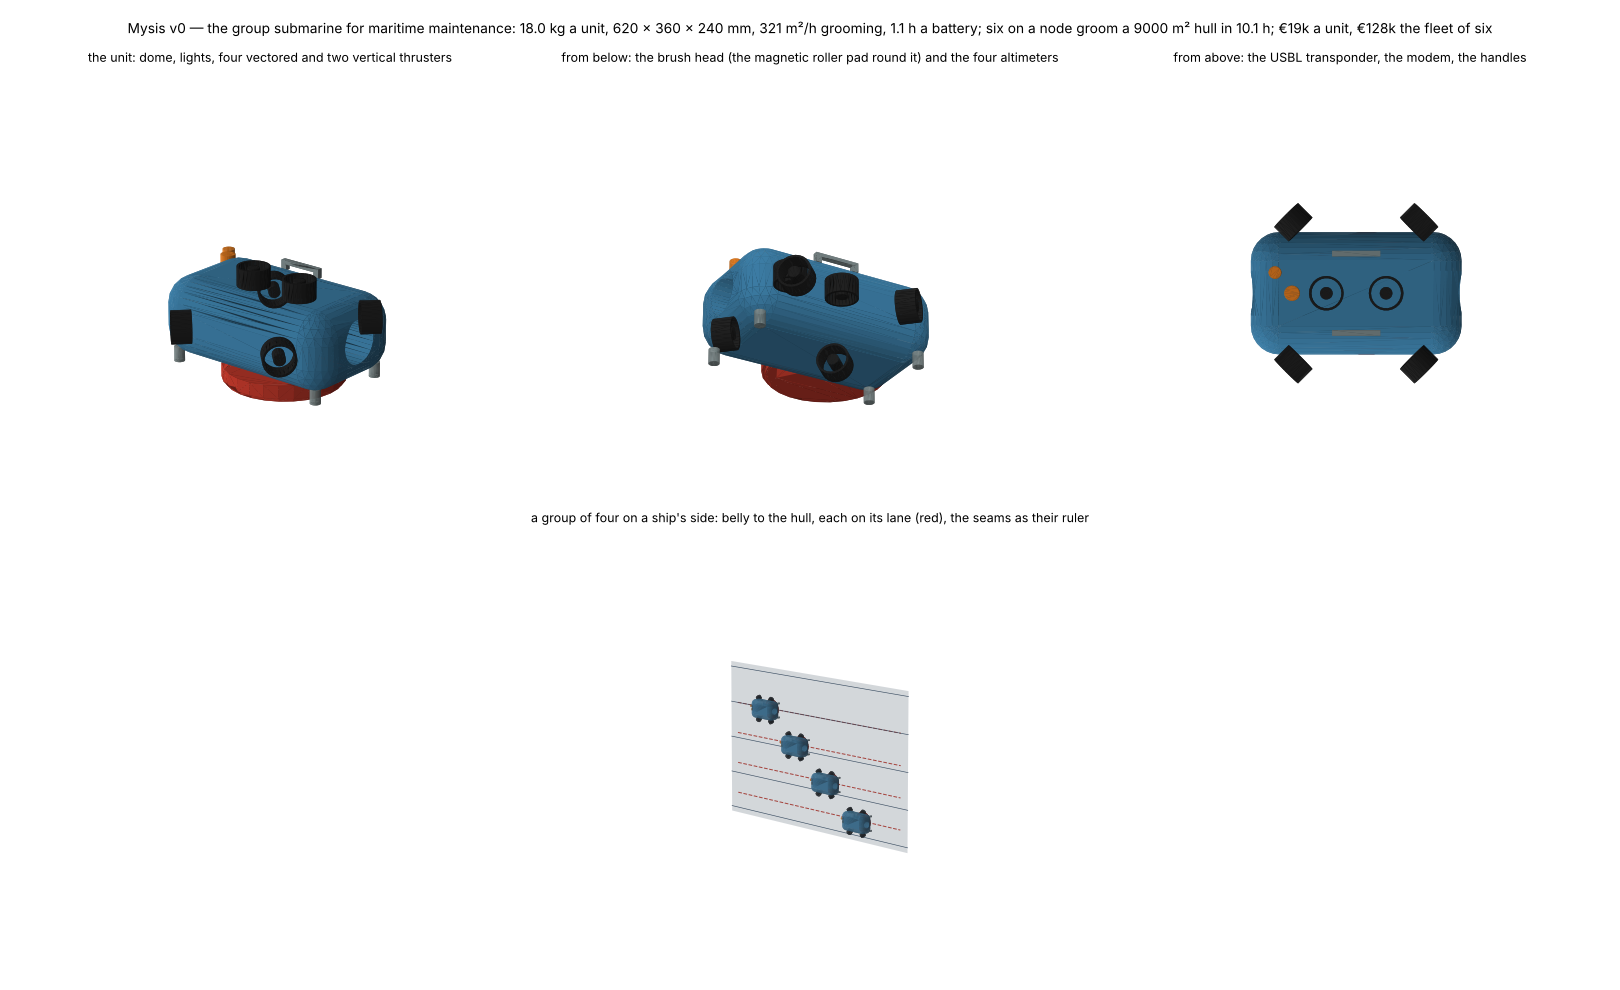
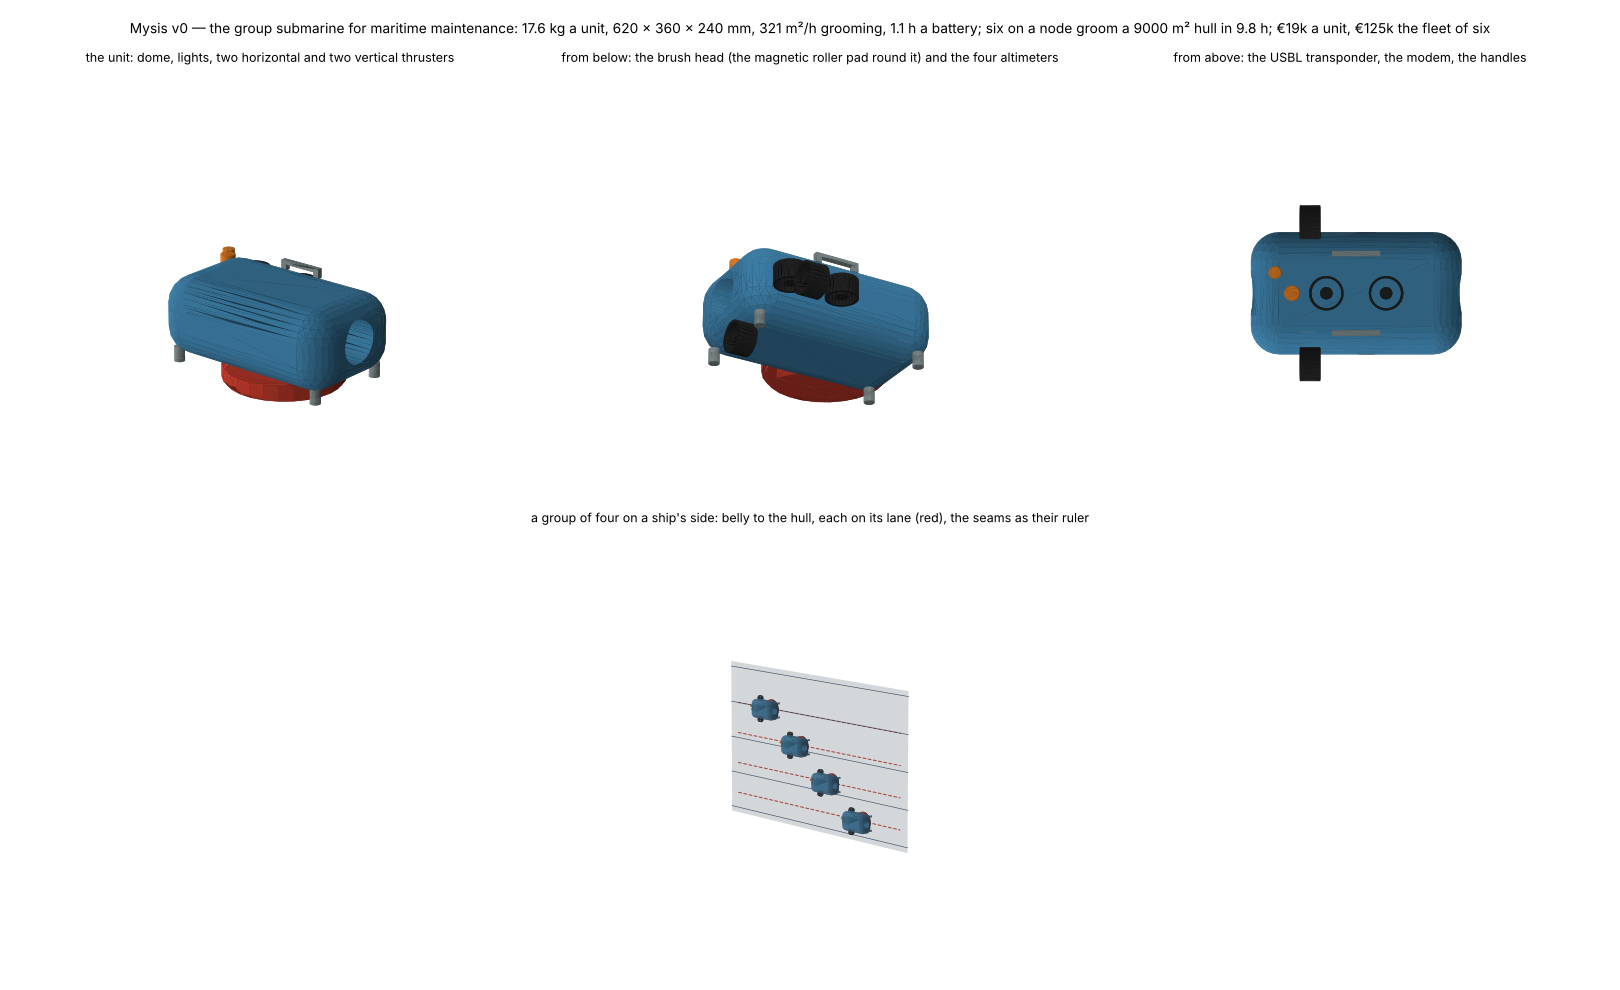
Mysis round 2: four thrusters (two differential horizontals, two verticals for heave and the roll a belly pad needs), the magnets on a servo clutch for free lift-off, an 80 N pad whose grip holds the lane; thruster count a parameter; brief, tests, drawing
Claude-Session: https://claude.ai/code/session_01JpTMNuaL4GVaAwMq9bN2fh

diff --git a/labs/marine/designs/mysis.py b/labs/marine/designs/mysis.py
@@ -14,9 +14,12 @@ Requirements (``REQUIREMENTS``): a unit under 20 kg and one-person portable in a
 six on one node; a ship's hull in one 12 h shift; under EUR 20k a unit and EUR 15k a node.
 
 Layout (x forward, y left, z up; z = 0 the brush's face, the hull side): a rounded shell round one Ø130 × 400 mm
-tube; the brush head under the belly; six ducted thrusters (four vectored horizontal at 45°, two vertical that press
-the brush to the hull); four altimeters at the corners; the camera dome in the nose, lights beside it; the USBL
-transponder and the modem on top; two carry handles.
+tube; the brush head under the belly inside the magnetic roller pad (its magnets on a servo clutch: lifted 10 mm
+to let go); four ducted thrusters — two horizontal in differential (surge, yaw) and two vertical (heave, and the
+roll a belly pad needs to meet a vertical ship side); no sway: the pad's friction holds the lane. Six (the ROV
+reflex: four vectored plus two vertical) was the first layout; four is what the job needs, and a unit's redundancy
+matters less in a group than its price. Four altimeters at the corners; the camera dome in the nose, lights beside
+it; the USBL transponder and the modem on top; two carry handles.
 
 ``part``: ``vehicle``, ``shell``, ``housing``, ``thrusters``, ``brush``, ``altimeters``, ``lights``, ``top``, ``handles``.
 """
@@ -45,7 +48,7 @@ REQUIREMENTS = {
 #: Bought parts per unit: (mass kg, volume L, average power W, price EUR) — class values, not quotes.
 PARTS = {
     "Jetson Orin NX 16GB + carrier": (0.30, 0.0, 15.0, 900.0),
-    "6 ducted thrusters with guards (T200 class)": (6 * 0.35, 6 * 0.15, 0.0, 6 * 300.0),
+    "ducted thrusters with guards (T200 class), each": (0.35, 0.15, 0.0, 300.0),      # times the thruster count
     "camera (stereo) + 4 lights": (1.20, 0.50, 40.0, 1500.0),
     "4 altimeters (hull distance, attitude)": (0.60, 0.25, 4.0, 1000.0),
     "IMU + depth + leak": (0.30, 0.10, 3.0, 800.0),
@@ -54,11 +57,13 @@ PARTS = {
     "LiFePO4 battery 500 Wh, 24 V + BMS": (3.50, 2.60, 0.0, 900.0),
     "tube Ø130 x 400 (Al, 60 m) + dome": (2.80, 5.30, 0.0, 1400.0),
     "shell, frame, foam, handles": (2.20, 6.50, 0.0, 2000.0),
-    "magnetic roller pad (NdFeB blocks on 3 rollers, 40 N preload on steel)": (0.40, 0.10, 0.0, 250.0),
+    "magnetic roller pad (NdFeB blocks on 3 rollers, 80 N on steel) + servo clutch": (0.65, 0.18, 1.0, 360.0),
     "assembly, cabling, test": (0.50, 0.10, 0.0, 2000.0),
 }
 BRUSH = {"mass": 2.8, "volume": 1.4, "power_W": 200.0, "width_m": 0.35, "press_N": 40.0, "price": 1400.0}
-PAD_PRELOAD_N = 40.0                                            # the magnetic pad's pull on steel (set by the magnets' standoff)
+PAD_PRELOAD_N = 80.0                                            # the magnetic pad's pull on steel, engaged
+PAD_RELEASED_N = 5.0                                            # with the clutch lifting the blocks 10 mm
+PAD_MU = 0.3                                                    # the rollers' lateral grip on a wet, slimy hull (assumed)
 NODE = {   # on the workboat or a buoy: (mass kg, price EUR)
     "USBL head + acoustic modem (surface)": (6.0, 7000.0),
     "GPS + 4G/Wi-Fi + the group's computer": (3.0, 2500.0),
@@ -78,6 +83,7 @@ class Mysis(Design):
         Parameter("height", 240.0, "mm", min=120),
         Parameter("tube_d", 130.0, "mm", min=80),
         Parameter("duct", 100.0, "mm", min=50, description="thruster duct with guard, outer"),
+        Parameter("thrusters", 4, "", min=3, max=6, description="4: two horizontal differential + two vertical; 6: four vectored + two vertical"),
         Parameter("thrust_each_N", 30.0, "N", min=5, description="each thruster's bollard thrust (T200 class at 24 V)"),
         Parameter("thruster_W", 350.0, "W", min=20),
         Parameter("groom_speed", 0.4, "m/s", min=0.05, description="along the lane while brushing"),
@@ -97,35 +103,41 @@ class Mysis(Design):
         """The unit: mass, trim, speed, pressing and holding, power and endurance, cleaning rate, price. The group:
         lanes, the shift on one hull, the acoustic link and positioning budget, the rotation through the node's bays."""
         p = cls.p(over)
-        m = sum(a for a, _, _, _ in PARTS.values()) + BRUSH["mass"]
-        V = (sum(b for _, b, _, _ in PARTS.values()) + BRUSH["volume"]) / 1000
+        n_t = int(p["thrusters"])
+        each = PARTS["ducted thrusters with guards (T200 class), each"]
+        extra = n_t - 1                                                       # the parts list counts one thruster
+        m = sum(a for a, _, _, _ in PARTS.values()) + extra * each[0] + BRUSH["mass"]
+        V = (sum(b for _, b, _, _ in PARTS.values()) + extra * each[1] + BRUSH["volume"]) / 1000
         net_up = 0.2
         trim_kg = RHO_SW * V - m - net_up
         L, W, H = p["length"] / 1000, p["width"] / 1000, p["height"] / 1000
         cda_fwd = 0.7 * W * H
-        T_fwd = 4 * p["thrust_each_N"] * math.cos(math.radians(45))
+        n_h = int(p["thrusters"]) - 2
+        T_fwd = n_h * p["thrust_each_N"] * (math.cos(math.radians(45)) if n_h == 4 else 1.0)
+        T_sway = 4 * p["thrust_each_N"] * math.cos(math.radians(45)) if n_h == 4 else 0.0
         T_press = 2 * p["thrust_each_N"]
         v_max = math.sqrt(T_fwd / (0.5 * RHO_SW * cda_fwd))
         u = REQUIREMENTS["current_m_s"]
         hull_drag = 0.5 * RHO_SW * u * u * (0.9 * L * H)                      # broadside to a current along the ship
         # on the hull: the magnetic pad gives the brush's press for nothing (steel); the vertical pair lands and lifts
         # off (it must beat the pad: the lift-off margin); friction from the preload helps hold the lane
-        hold_margin = (T_fwd + 0.3 * PAD_PRELOAD_N) / hull_drag - 1
+        hold_margin = (T_sway + PAD_MU * PAD_PRELOAD_N) / hull_drag - 1       # the cross-current: sway thrust or the pad's grip
         press_margin = PAD_PRELOAD_N / BRUSH["press_N"] - 1
-        liftoff_margin = T_press / PAD_PRELOAD_N - 1
+        liftoff_margin = T_press / PAD_RELEASED_N - 1                          # the clutch lets go first
         # power: hotel + brush + driving the lane against drag and the pad's rolling friction
         hotel = sum(w for _, _, w, _ in PARTS.values())
         k_T = p["thruster_W"] / p["thrust_each_N"] ** 1.5                     # W per N^1.5 (propeller: P ~ T^1.5)
         press_W = 0.0
-        drive_N = 0.5 * RHO_SW * cda_fwd * p["groom_speed"] ** 2 + 0.15 * PAD_PRELOAD_N + 0.2 * BRUSH["press_N"]
-        drive_W = 4 * k_T * (drive_N / 4 / math.cos(math.radians(45))) ** 1.5
+        drive_N = 0.5 * RHO_SW * cda_fwd * p["groom_speed"] ** 2 + 0.08 * PAD_PRELOAD_N + 0.2 * BRUSH["press_N"]   # hard rollers roll at ~0.08
+        per = (lambda N: N / 4 / math.cos(math.radians(45))) if n_h == 4 else (lambda N: N / 2)
+        drive_W = n_h * k_T * per(drive_N) ** 1.5
         groom_W = hotel + BRUSH["power_W"] + press_W + drive_W
         survey_N = 0.5 * RHO_SW * cda_fwd * p["survey_speed"] ** 2
-        survey_W = hotel + 4 * k_T * (survey_N / 4 / math.cos(math.radians(45))) ** 1.5
+        survey_W = hotel + n_h * k_T * per(survey_N) ** 1.5
         usable = 0.9 * p["battery_wh"]
         groom_h, survey_h = usable / groom_W, usable / survey_W
         rate = BRUSH["width_m"] * (1 - p["lane_overlap"]) * p["groom_speed"] * 3600 * 0.75   # m2/h, 75 % lane efficiency
-        unit_price = sum(c for _, _, _, c in PARTS.values()) + BRUSH["price"]
+        unit_price = sum(c for _, _, _, c in PARTS.values()) + extra * each[3] + BRUSH["price"]
         # the group
         n = int(p["group"])
         bays = 2
@@ -166,9 +178,13 @@ class Mysis(Design):
         L, W, H = p["length"], p["width"], p["height"]
         c = math.cos(math.radians(45))
         out = []
-        for sx in (1, -1):
-            for sy in (1, -1):
-                out.append(((sx * L * 0.30, sy * (W / 2 + p["duct"] * 0.3), H * 0.5 + 40), (sx * c, sy * c, 0)))
+        if int(p["thrusters"]) >= 6:
+            for sx in (1, -1):
+                for sy in (1, -1):
+                    out.append(((sx * L * 0.30, sy * (W / 2 + p["duct"] * 0.3), H * 0.5 + 40), (sx * c, sy * c, 0)))
+        else:
+            for sy in (1, -1):                                                 # two along the sides, pushing forward
+                out.append(((-L * 0.22, sy * (W / 2 + p["duct"] * 0.3), H * 0.5 + 40), (1, 0, 0)))
         for sx in (1, -1):
             out.append(((sx * L * 0.14, 0, H + 40 + p["duct"] * 0.05), (0, 0, 1)))
         return out
@@ -240,7 +256,7 @@ class Mysis(Design):
 
 if __name__ == "__main__":
     s = Mysis.sizing()
-    print(f"unit: {s['mass_in_air_kg']:.1f} kg (case {s['case_kg']:.0f} kg), trim {s['trim_kg']:+.2f} kg, {s['v_max_m_s']:.2f} m/s, pad {s['press_N']:.0f} N "
+    print(f"unit ({Mysis.p()['thrusters']} thrusters): {s['mass_in_air_kg']:.1f} kg (case {s['case_kg']:.0f} kg), trim {s['trim_kg']:+.2f} kg, {s['v_max_m_s']:.2f} m/s, pad {s['press_N']:.0f} N "
           f"(press margin {s['press_margin']:+.2f}, lift-off {s['liftoff_margin']:+.2f}), hold {s['hold_margin']:+.2f}; groom {s['groom_W']:.0f} W -> {s['groom_h']:.1f} h, survey {s['survey_h']:.1f} h; "
           f"{s['rate_m2_h']:.0f} m2/h; EUR {s['unit_price_eur']:.0f}")
     for n in (1, 2, 4, 6):

diff --git a/labs/marine/designs/mysis_draw3d.py b/labs/marine/designs/mysis_draw3d.py
@@ -61,7 +61,7 @@ def draw_group(ax, p, n=4):
 def main(out="mysis_3d.png"):
     p = Mysis.p()
     fig = plt.figure(figsize=(18, 11))
-    draw_unit(fig.add_subplot(2, 3, 1, projection="3d"), p, 20, -50, "the unit: dome, lights, four vectored and two vertical thrusters")
+    draw_unit(fig.add_subplot(2, 3, 1, projection="3d"), p, 20, -50, "the unit: dome, lights, two horizontal and two vertical thrusters")
     draw_unit(fig.add_subplot(2, 3, 2, projection="3d"), p, -28, -120, "from below: the brush head (the magnetic roller pad round it) and the four altimeters")
     draw_unit(fig.add_subplot(2, 3, 3, projection="3d"), p, 90, -90, "from above: the USBL transponder, the modem, the handles")
     draw_group(fig.add_subplot(2, 1, 2, projection="3d"), p)

diff --git a/labs/marine/tests/test_mysis.py b/labs/marine/tests/test_mysis.py
@@ -29,6 +29,13 @@ def test_a_ship_in_a_shift():
     assert Mysis.sizing({"group": 1})["shift_h"] > 4 * g["shift_h"]
 
 
+def test_four_thrusters_against_six():
+    four, six = Mysis.sizing({"thrusters": 4}), Mysis.sizing({"thrusters": 6})
+    assert four["mass_in_air_kg"] < six["mass_in_air_kg"] and four["unit_price_eur"] < six["unit_price_eur"]
+    assert four["hold_margin"] > 0                                   # the pad's grip holds the lane without sway
+    assert four["liftoff_margin"] > 1                                # the clutch lets go: lift-off is easy
+
+
 def test_cad_builds():
     pytest.importorskip("cadquery")
     assert Mysis().build(Mysis.p()).val().isValid()

diff --git a/labs/marine/designs/mysis.md b/labs/marine/designs/mysis.md
@@ -18,21 +18,36 @@ Echensis's hull navigation (`echensis.md`) scaled down, Shrimp's "the structure 
 
 ## v0 numbers (`python labs/marine/designs/mysis.py`)
 
-* The unit: 620 × 360 × 240 mm round one Ø130 × 400 mm tube; **18.0 kg** in air (a 25 kg case), 0.6 kg of lead to
-  trim; six T200-class thrusters: 85 N forward, **1.65 m/s**; holds on the hull in 0.5 m/s with a ×5 margin.
-* Grooming: a 0.35 m brush at 0.4 m/s with 15 % lane overlap and 75 % lane efficiency, **320 m²/h**; 416 W on the
-  hull → **1.1 h** a battery (500 Wh); surveying 3.3 h.
+* The unit (round 2): 620 × 360 × 240 mm round one Ø130 × 400 mm tube; **17.6 kg** in air (a 25 kg case), 0.8 kg
+  of lead to trim; four T200-class thrusters: 60 N forward, **1.39 m/s**; the 80 N pad's grip holds the lane in a
+  0.5 m/s cross-current with 40 % to spare.
+* Grooming: a 0.35 m brush at 0.4 m/s with 15 % lane overlap and 75 % lane efficiency, **320 m²/h**; 397 W on the
+  hull → **1.1 h** a battery (500 Wh); surveying 3.6 h.
 * **The group**: with two bays on the node, a unit spends 46 % of its time on the hull (1.1 h on, 1.25 h charging),
   so six units keep about three at work: **890 m²/h**. A 180 m bulker's wetted hull (9 000 m², 169 lanes) takes
   **10 h: one shift** with six, 15 h with four, 60 h alone. The acoustic link carries six units' reports (0.5 Hz,
   100 bytes) with a ×2 margin; a USBL fix every 6 s and 5 cm of dead-reckoning drift between fixes.
-* Price (class prices): **€19.1k** a unit; **€14.0k** the node; the fleet of six **€128k**.
+* Price (class prices, round 2): **€18.6k** a unit; **€14.0k** the node; the fleet of six **€125k**.
 
 ## What the group buys
 
 One unit is a 60 h job; six are a shift, with the same supervisor and the same boat. The lanes are the unit of work:
 each unit takes the next free lane from the shared map, reports it done, and the map is the record the ship's
 superintendent gets. A unit that fails lifts off, surfaces and strobes; its lane goes back into the pool.
+
+## Decisions (round 2): four thrusters, not six
+
+Six was the ROV reflex (four vectored plus two vertical: all six degrees of freedom, with redundancy). What the job
+needs: surge, heave and yaw to swim and land; **roll**, because a belly pad meeting a vertical ship side means
+rolling 90° against the passive stability; surge and yaw on the lane. Sway was there to hold the lane in a
+cross-current — the pad's grip does that instead — and the big verticals were there to out-pull the magnets at
+lift-off, which a **servo clutch** on the magnets (lifted 10 mm, the pull drops from 80 N to ~5 N) makes free.
+
+So: **two horizontals in differential and two verticals**; the pad raised to 80 N (press margin ×2, grip 24 N
+against 17 N of broadside drag at 0.5 m/s: +40 %); lift-off margin ×12 through the clutch. The unit loses 0.4 kg,
+0.3 L and €500 (×6 for the fleet), 1.65 → 1.39 m/s, and the controller loses a dimension. It also loses the
+redundancy a single ROV wants, which in a group is the right trade: a failed unit lifts off, surfaces and strobes,
+and its lane goes back in the pool. `thrusters` stays a parameter (4 or 6) so the comparison is one call.
 
 ## Open questions (next round)
 
